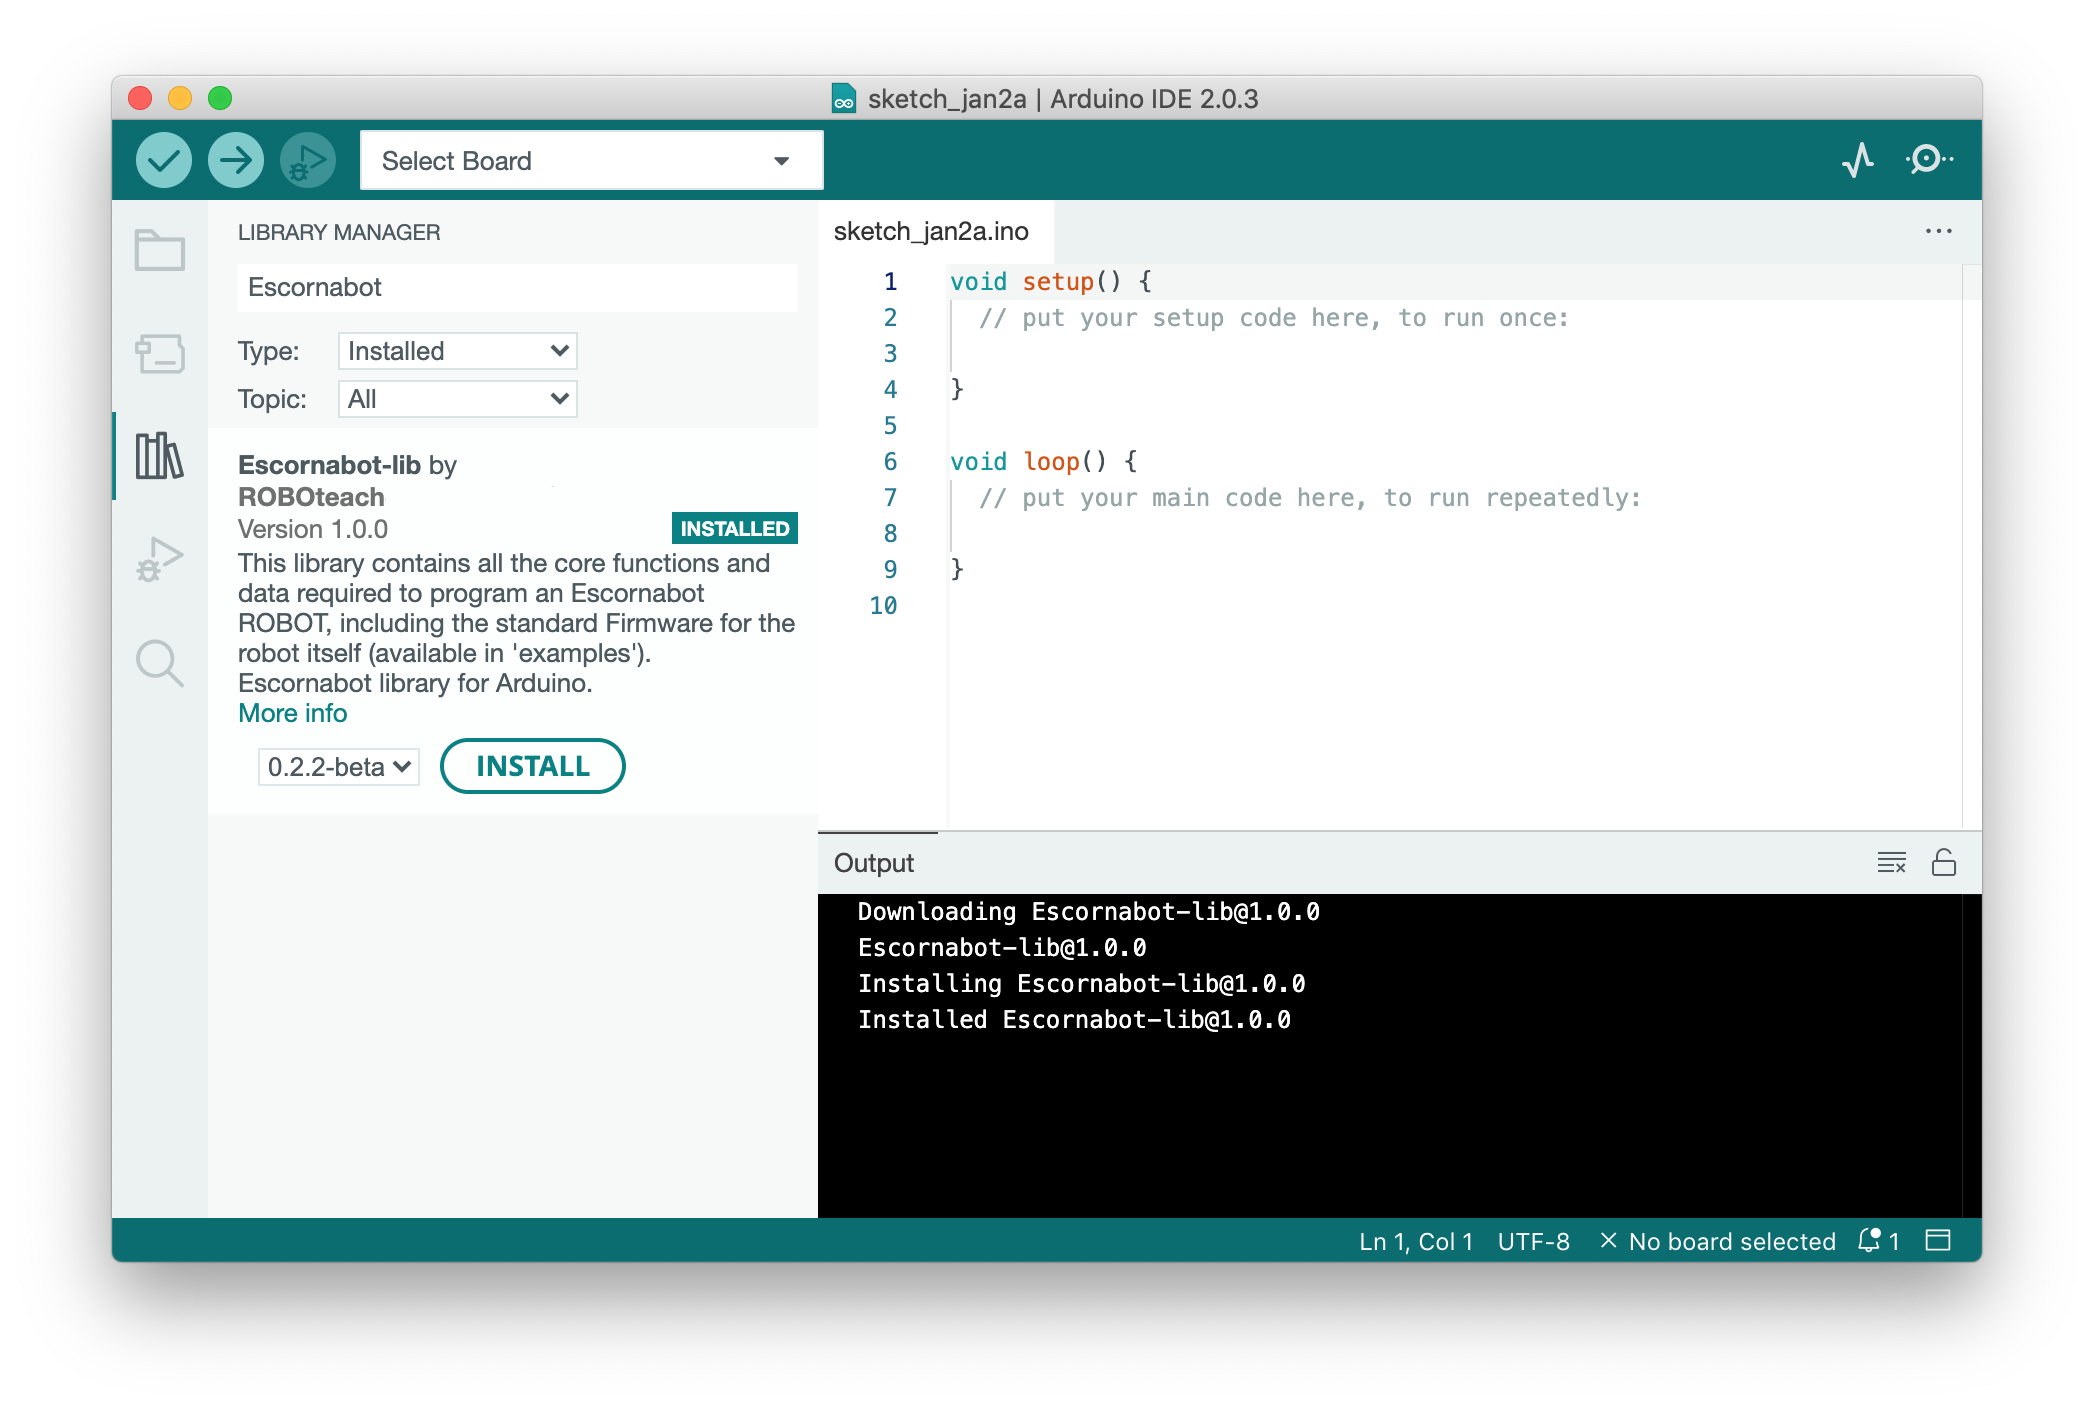
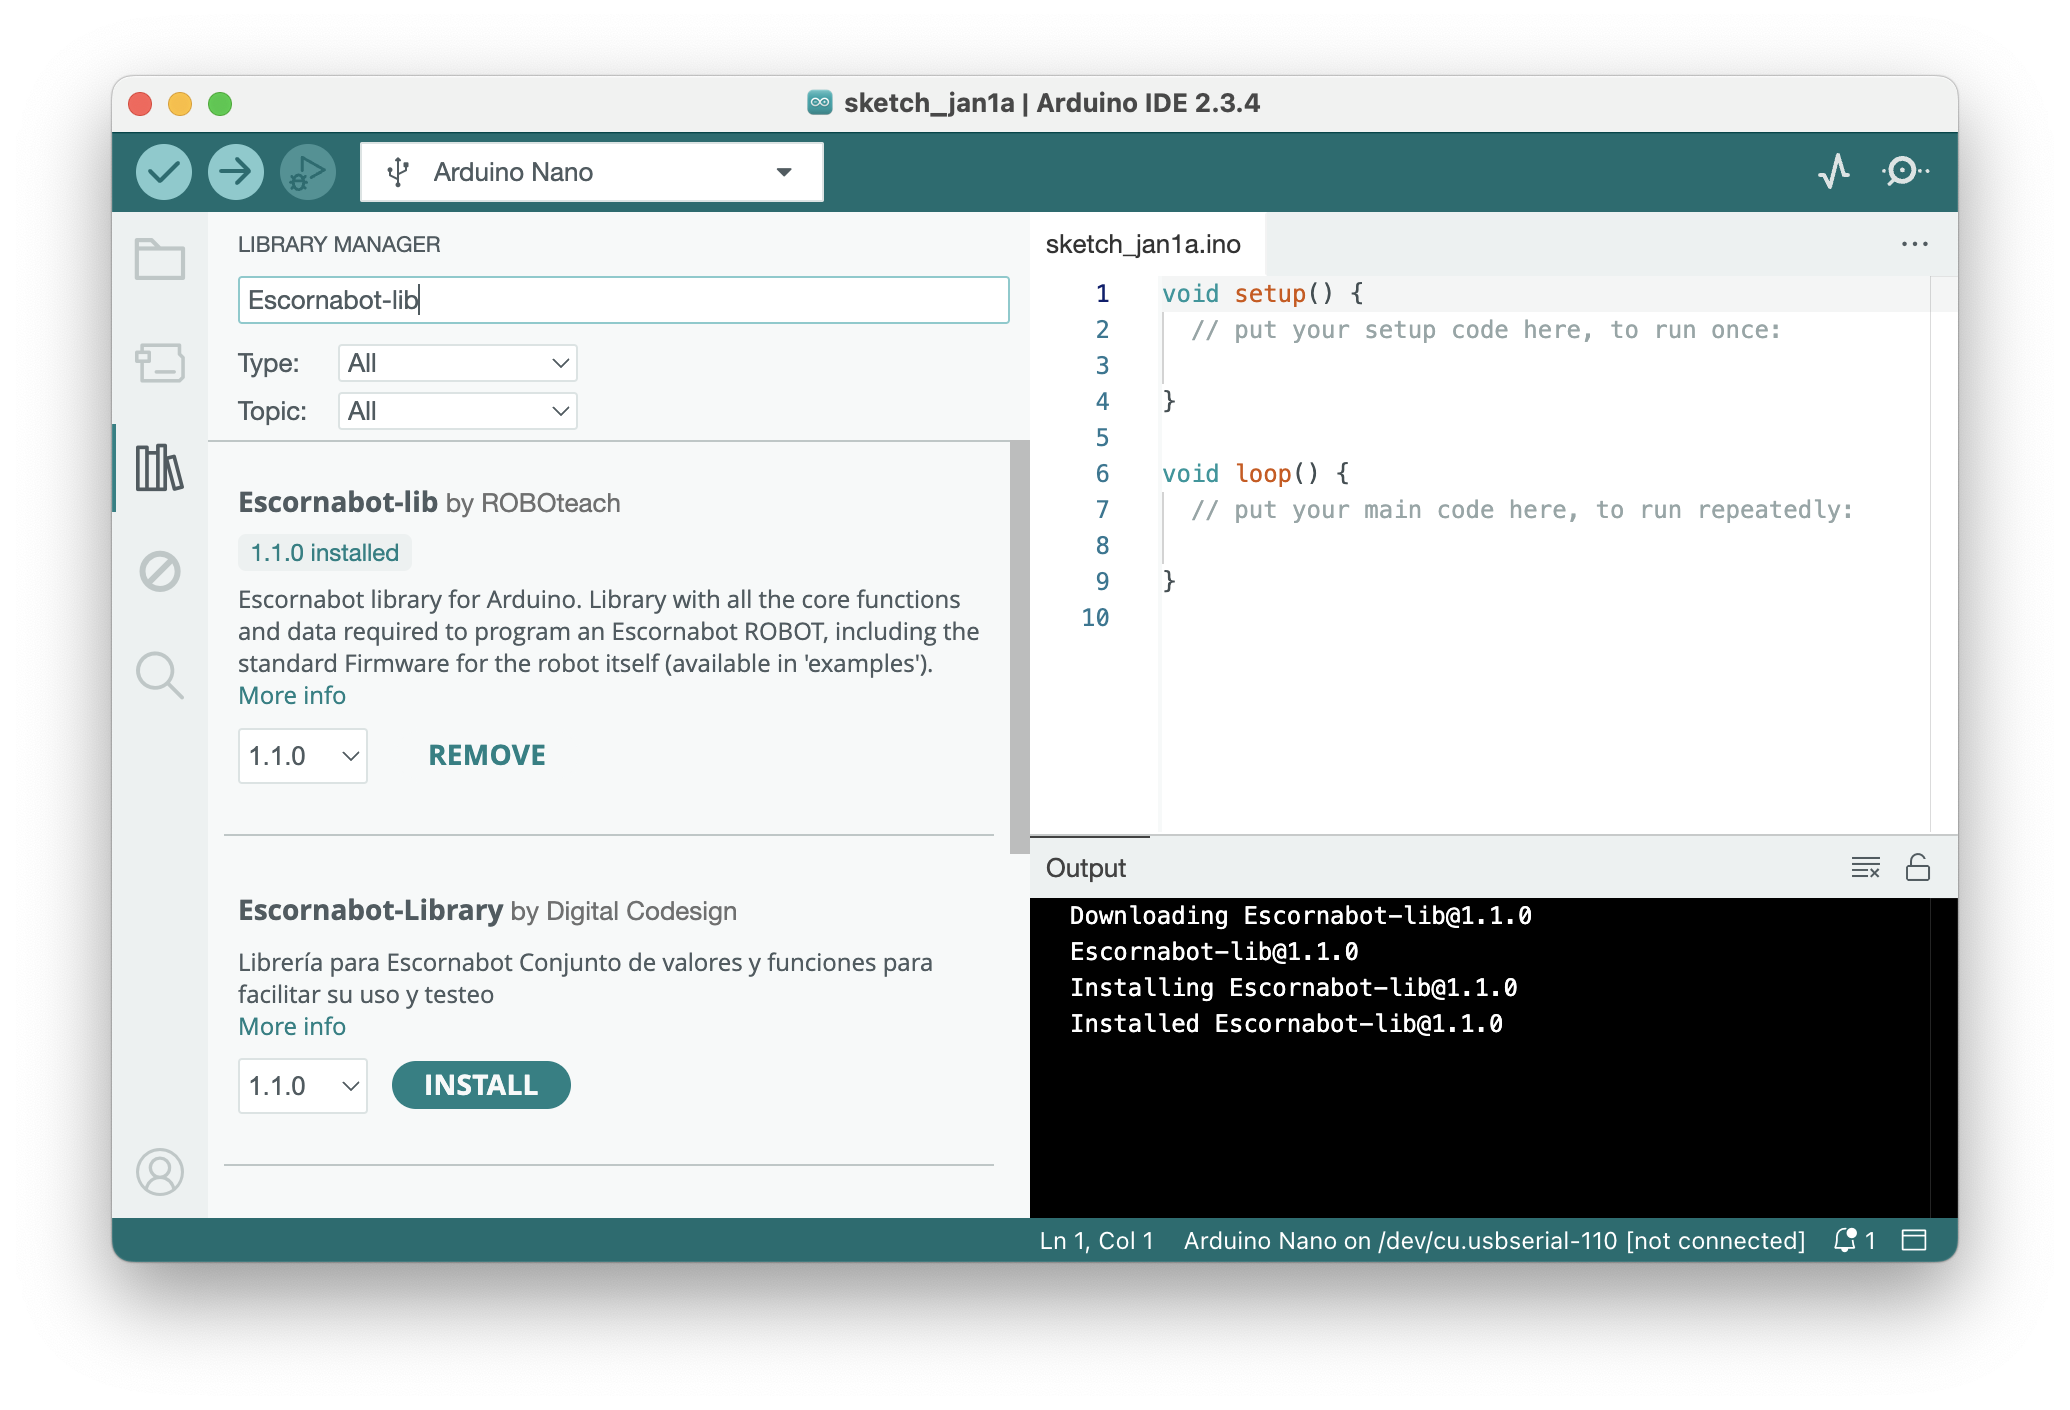
New version 1.1.1

diff --git a/README.md b/README.md
@@ -34,10 +34,10 @@ void loop() {
 
 ## Installation
 
-1.  Download and install the [Arduino IDE 1.6 (or newer)](https://www.arduino.cc/en/Main/Software)
+1.  Download and install the [Arduino IDE 1.6 (or newer)](https://www.arduino.cc/en/software)
 2.  Open the `Library Manager` from the menu `Tools → Manage Libraries...`
 3.  Search the `Escornabot-lib` library using the input field
-4.  Select the last version (from the dropdown combobox) and click `Install`
+4.  Select the one from **ROBOteach**, pick the last version from the dropdown combobox and click `Install`
 
 You can try now some of the examples from the menu `File → Examples → Escornabot-lib`.
 
@@ -49,13 +49,13 @@ You can try now some of the examples from the menu `File → Examples → Escorn
 
 From a functional perspective, it is a device composed of:
 
-* an **Arduino**, typically a Nano (the *brains*)
-* two 28BYJ-48 5V **stepper motor**s with its driver[s] (the *movement*)
-* a 5V **passive buzzer** (the *sound*)
-* a **LED**, or LEDs, or a NeoPixel now (the *light*)
-* a 5 keys **analog keypad** (the *input*)
-* an **energy source**, batteries or powerBank (the *power*)
-* a **chasis** with two **wheels**, normally 3D printed (the *shape*)
+* An **Arduino**, typically a Nano (the *brains*)
+* Two 28BYJ-48 5V **stepper motor**s with its driver[s] (the *movement*)
+* A 5V **passive buzzer** (the *sound*)
+* A **LED**, or LEDs, or a **NeoPixel** now (the *light*)
+* A 5 keys **analog keypad** (the *input*)
+* An **energy source**, batteries or powerBank (the *power*)
+* A **chasis** with two **wheels**, normally 3D printed (the *shape*)
 
 arranged in a particular physical configuration that allows it to move and turn in a surface, do sound and light, and accept user input, to perform different tasks (typically used as a **programmable buttoned floor robot**).
 
